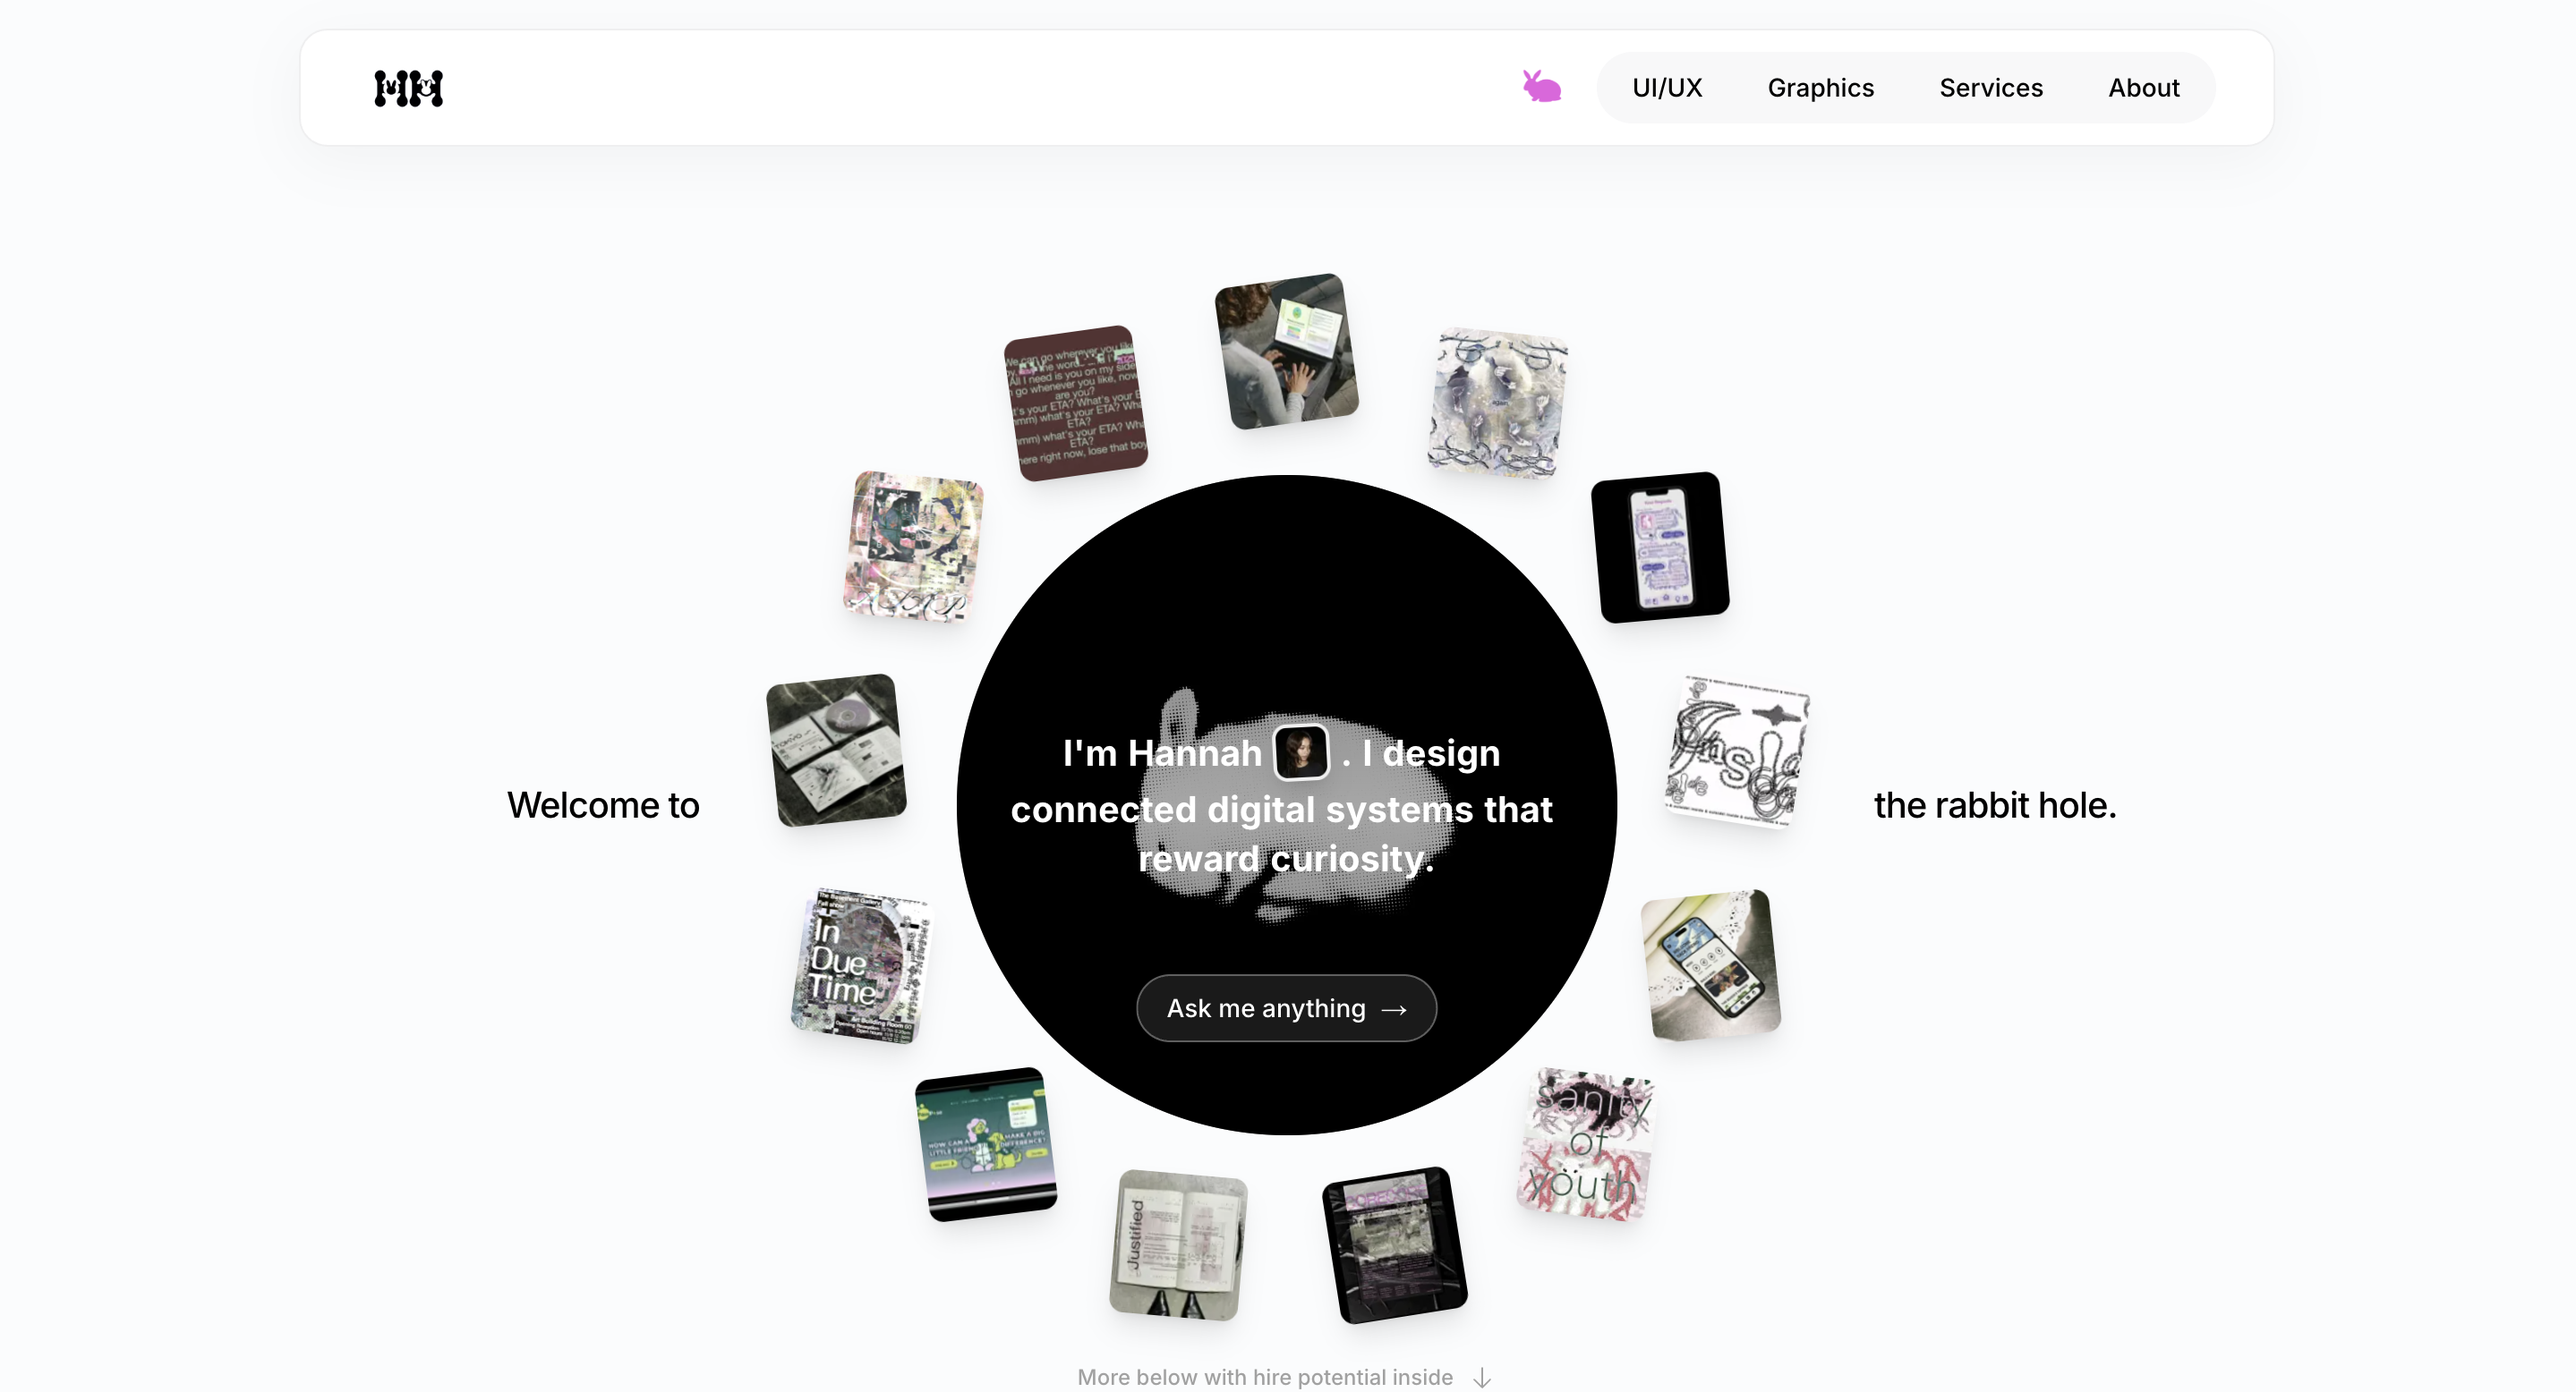
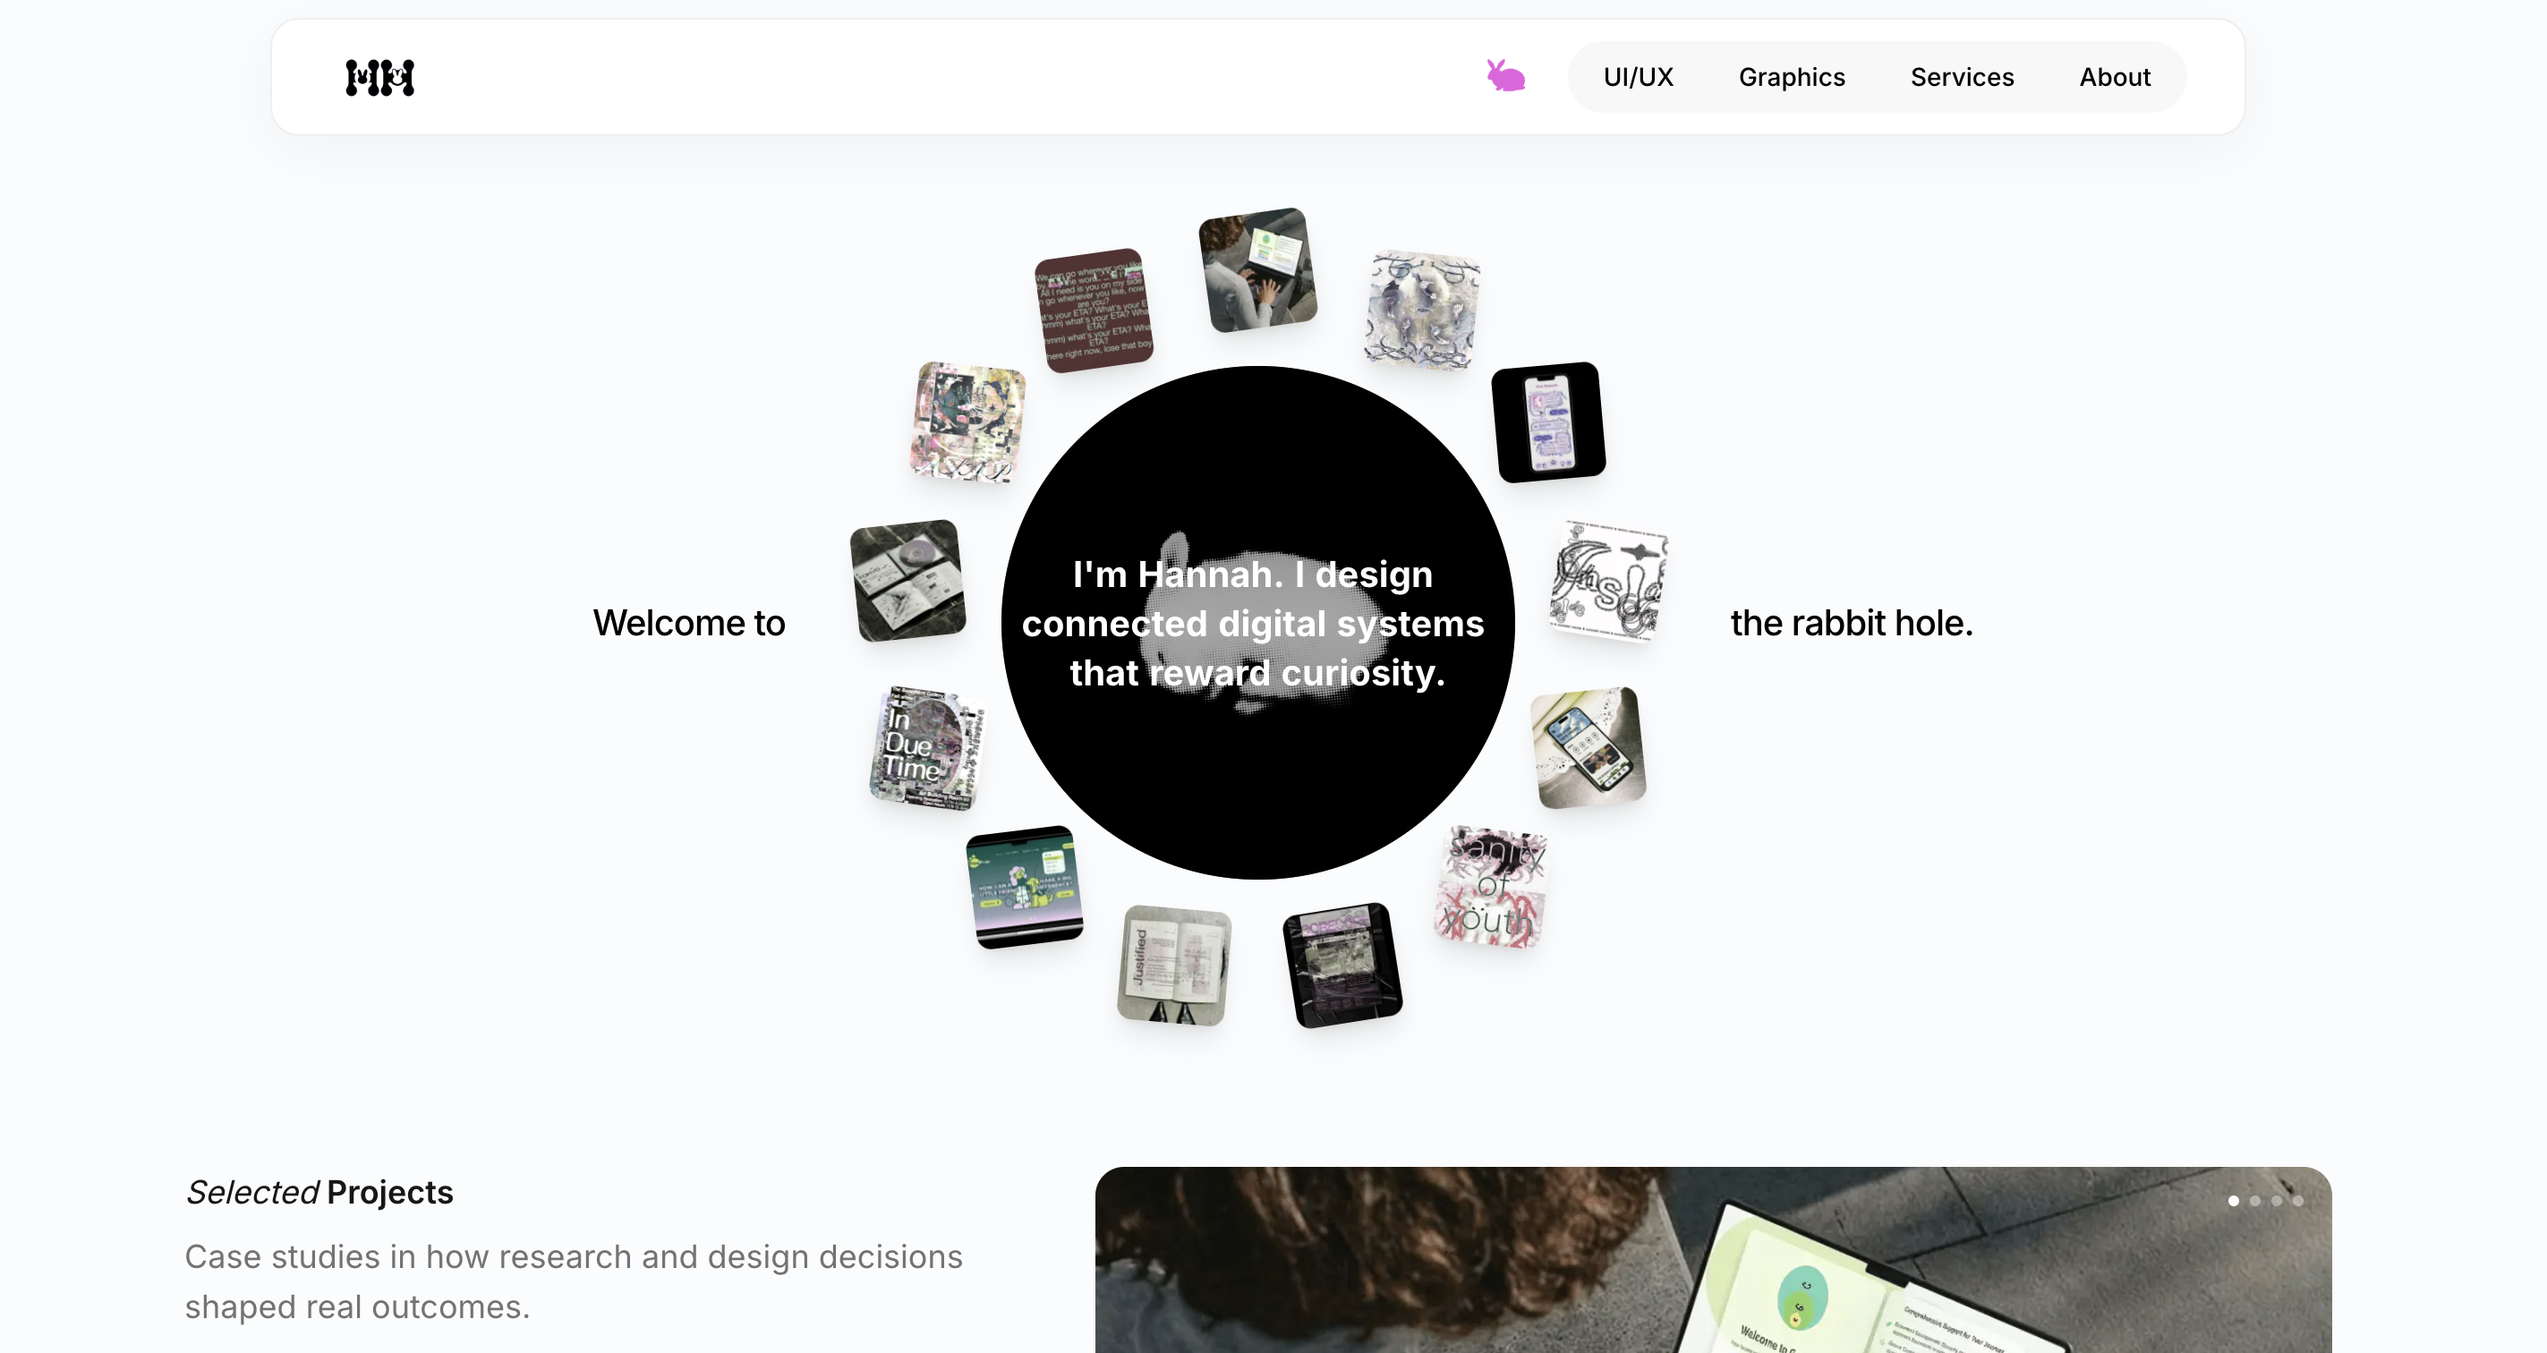
Swap Open Graph/Twitter preview image to updated screenshot

diff --git a/app/layout.tsx b/app/layout.tsx
@@ -53,8 +53,8 @@ export const metadata: Metadata = {
     images: [
       {
         url: "/images/Link_preview_final.png",
-        width: 2878,
-        height: 1556,
+        width: 2846,
+        height: 1512,
         alt: "Hannah Roxas — Portfolio",
       },
     ],
